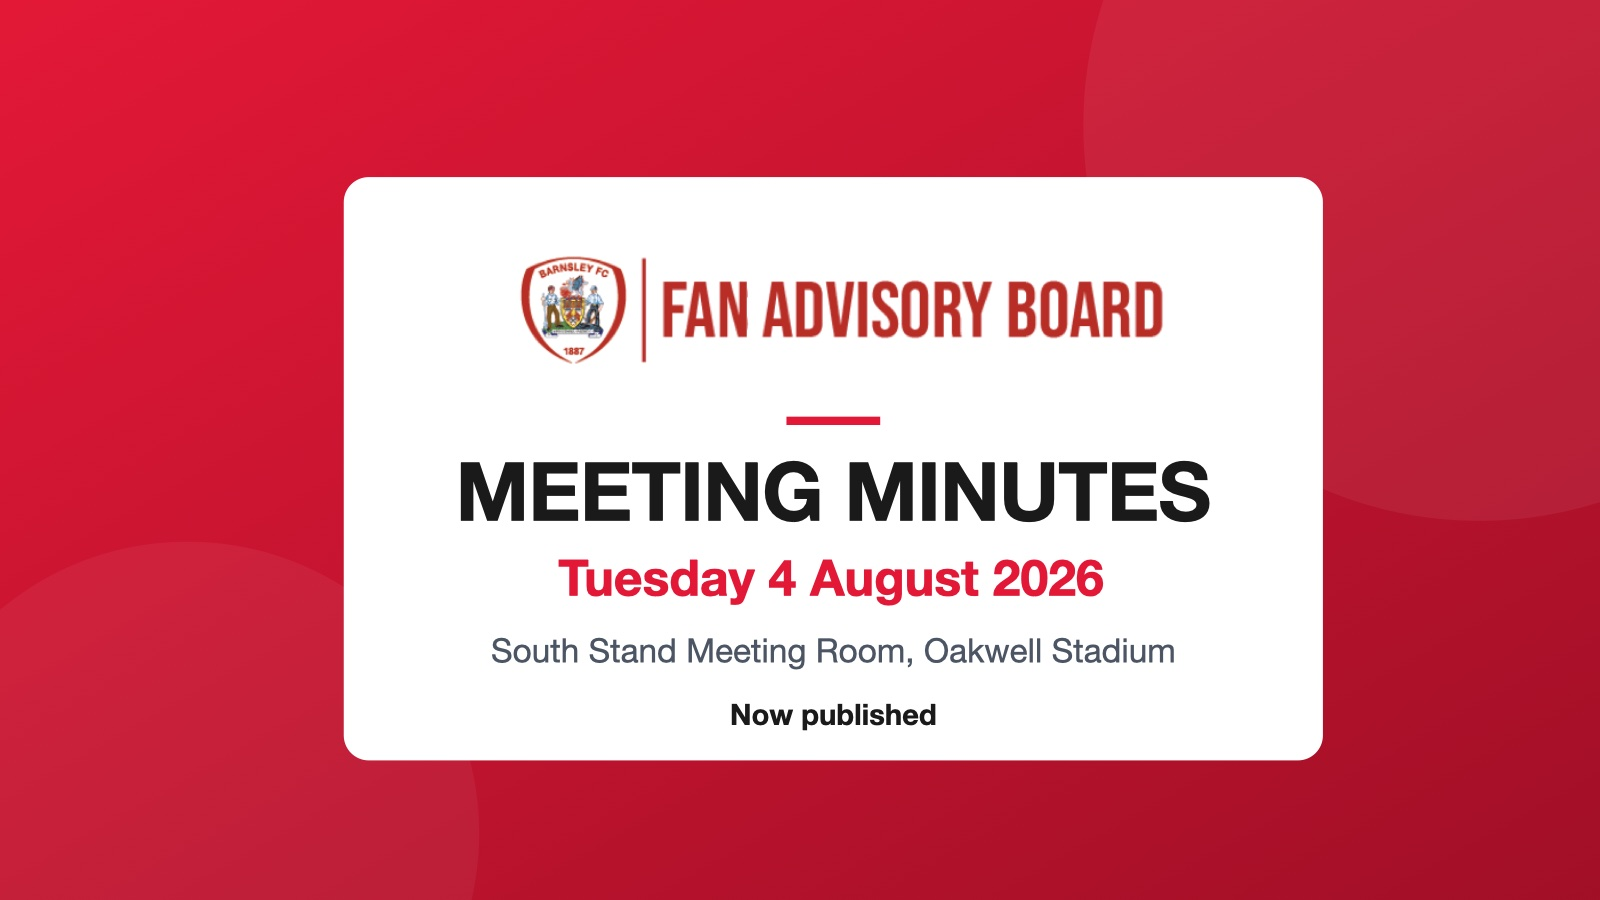
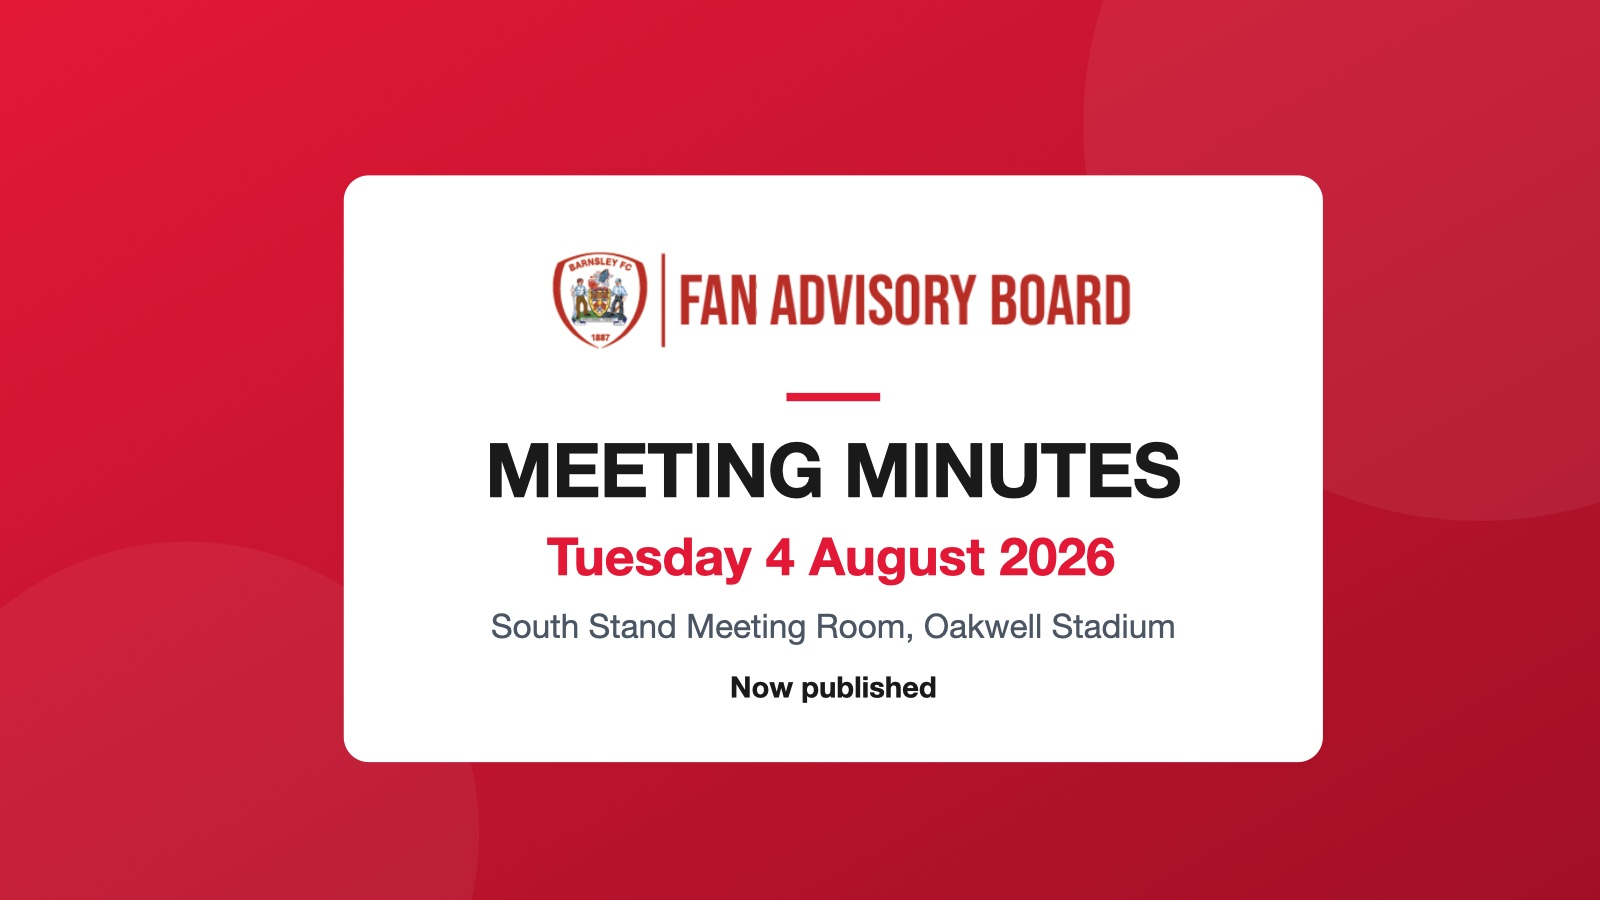
feat(tooling): reusable branded news-card generator with minutes, meeting, statement and news templates

diff --git a/docs/image-templates.md b/docs/image-templates.md
@@ -1,0 +1,24 @@
+# News image templates
+
+Articles should have a photo where one exists. When there is none, generate a branded card so
+every article still has a featured image and a social media picture. All cards share one layout
+(club red gradient, white panel, FAB logo, kicker, title, subtitle, footer) so the site looks
+consistent; the template only changes the kicker line.
+
+```bash
+node scripts/news-card.mjs --template minutes --title "Tuesday 4 August 2026" \
+  --subtitle "South Stand Meeting Room, Oakwell Stadium" --footer "Now published" \
+  --out public/images/news/2026-09-10-august-meeting-minutes-published.jpg
+```
+
+| Template | Kicker | Use for |
+|---|---|---|
+| `minutes` | MEETING MINUTES | A set of minutes being published (title = meeting date, subtitle = venue) |
+| `meeting` | NEXT MEETING | Announcing the next meeting (title = date and time, subtitle = venue or how to join) |
+| `statement` | FAB STATEMENT | Formal statements (title = the subject) |
+| `news` | FAB NEWS | Anything else; `--kicker` overrides the line |
+
+Output is a 1600x900 JPEG, content centred so it survives the 16:9 hero and square social crops.
+Name the file `<yyyy-mm-dd>-<slug>.jpg` to match the article and put the path in the article's
+`image` front matter. The script is macOS-only (it renders with Quick Look and converts with
+`sips`) and needs no npm packages.
